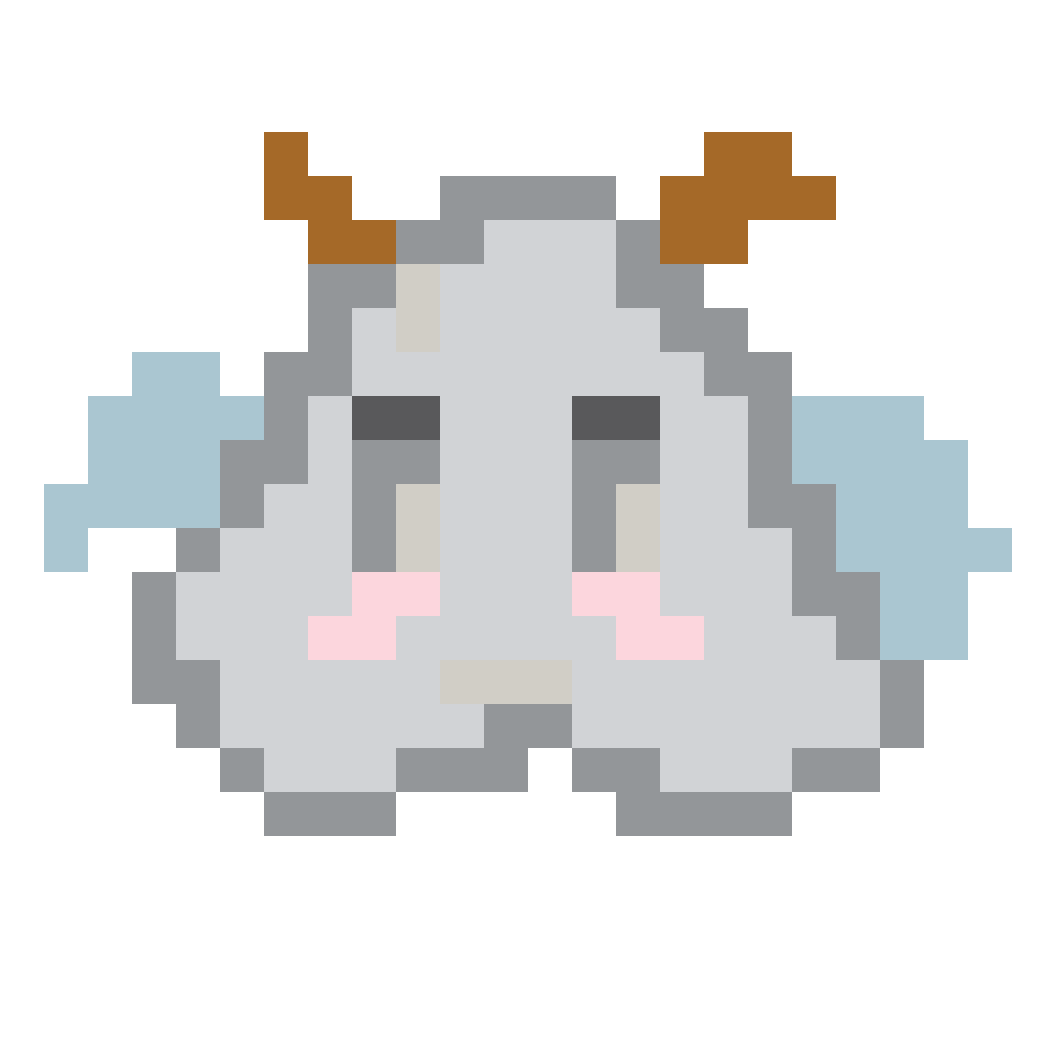
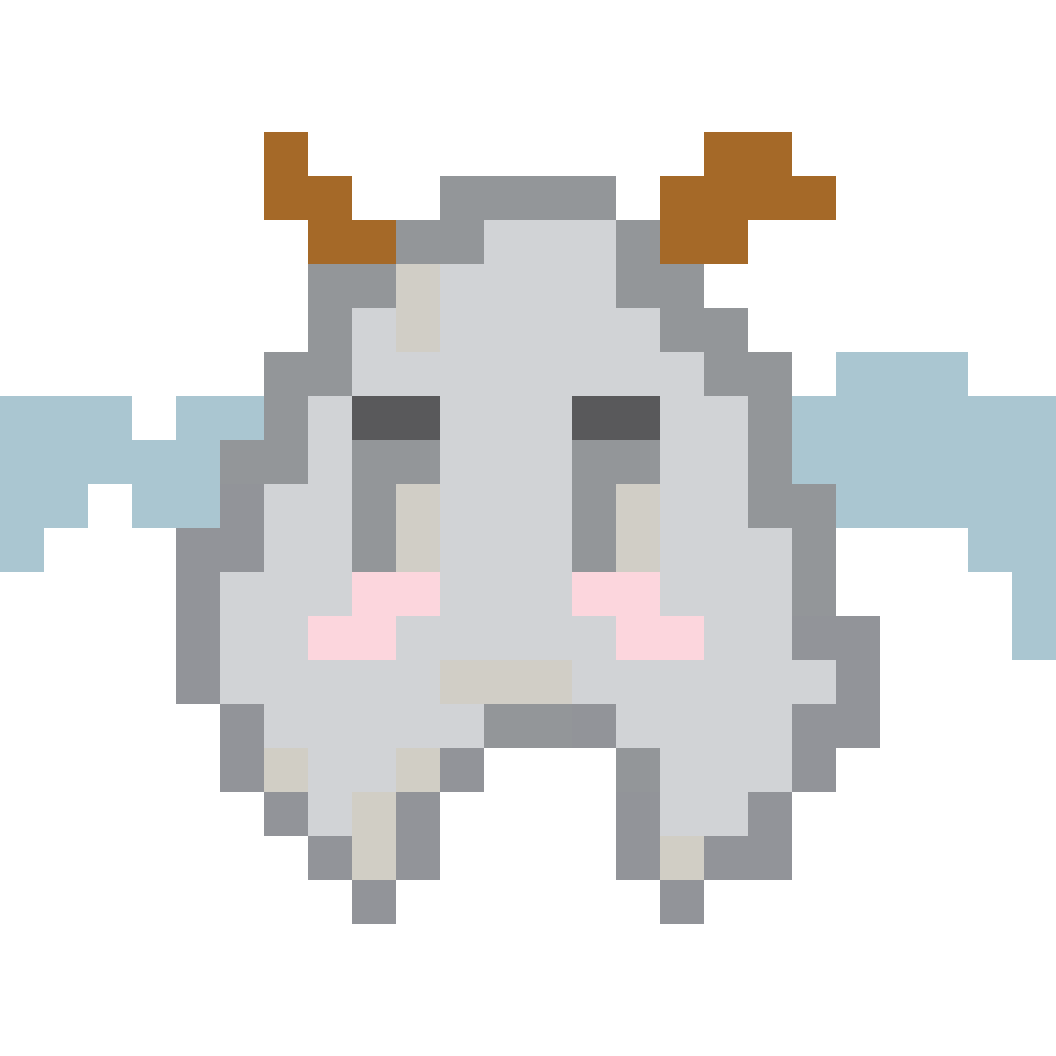
换了动图顺序，加了一点浮动

diff --git a/index.html b/index.html
@@ -53,6 +53,7 @@ function setup() {
   left.press = () => {
     //Change the pigu's velocity when the key is pressed
     pigu.setTexture(piguTexture1);
+    pigu.y = pigu.y + 10;
     if(lastHor == "right")
     {
         pigu.scale.x *= -1;
@@ -68,6 +69,7 @@ function setup() {
     //and the pigu isn't moving vertically:
     //Stop the pigu
     pigu.setTexture(piguTexture2);
+    pigu.y = pigu.y - 10;
     if (!right.isDown && pigu.vy === 0) {
       pigu.vx = 0;
     }
@@ -76,11 +78,13 @@ function setup() {
   //Up
   up.press = () => {
     pigu.setTexture(piguTexture1);
+    pigu.y = pigu.y + 10;
     pigu.vy = -5;
     pigu.vx = 0;
   };
   up.release = () => {
     pigu.setTexture(piguTexture2);
+    pigu.y = pigu.y - 10;
     if (!down.isDown && pigu.vx === 0) {
       pigu.vy = 0;
     }
@@ -89,6 +93,7 @@ function setup() {
   //Right
   right.press = () => {
     pigu.setTexture(piguTexture1);
+    pigu.y = pigu.y + 10;
     pigu.anchor.x = 1
     if(lastHor == "left"){
           pigu.scale.x *= -1;
@@ -99,6 +104,7 @@ function setup() {
   };
   right.release = () => {
     pigu.setTexture(piguTexture2);
+    pigu.y = pigu.y - 10;
     if (!left.isDown && pigu.vy === 0) {
       pigu.vx = 0;
     }
@@ -107,11 +113,13 @@ function setup() {
   //Down
   down.press = () => {
     pigu.setTexture(piguTexture1);
+    pigu.y = pigu.y + 10;
     pigu.vy = 5;
     pigu.vx = 0;
   };
   down.release = () => {
     pigu.setTexture(piguTexture2);
+    pigu.y = pigu.y - 10;
     if (!up.isDown && pigu.vx === 0) {
       pigu.vy = 0;
     }
